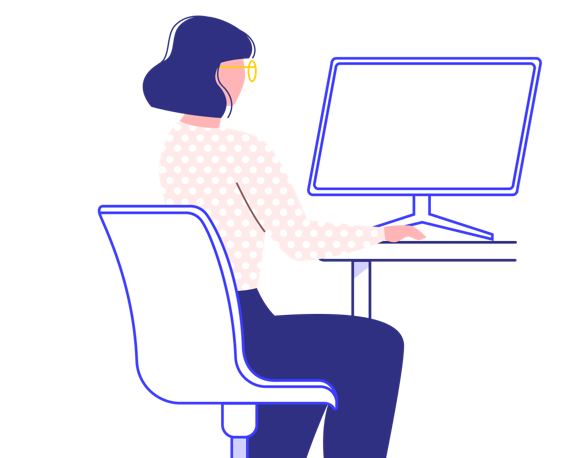
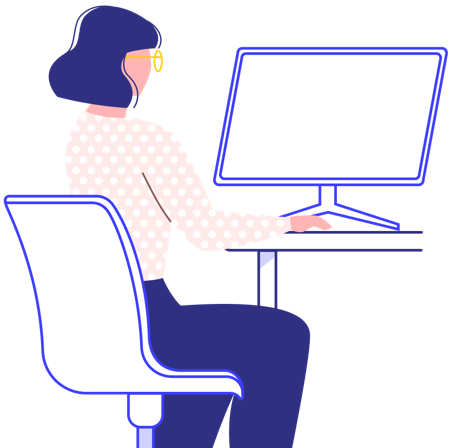
main content layout finalisation

diff --git a/content/_index.html b/content/_index.html
@@ -9,24 +9,22 @@ weight = 1
 
 +++
 
-<div>
-    <div class="container-md about">
-        <div class="row justify-content-end mt-5">
-            <div class="col-md-6 align-self-center">
-                <h1>Aby si firmy a mamy na Slovensku lepšie rozumeli</h1>
-                <p>Je nám cťou prinášať obojstranne výhodné riešenia pre ženy aj ich zamestnávateľov</p>
-                <p><strong>Budeme radi, ak sa pridáte!</strong></p>
-                <a href="moms"><img src="companies.png" class="me-4 mb-2"></a>
-                <a href=""><img src="moms.png" class="me-4 mb-2"></a>
-            </div>
-            <div class="col-md-5 align-self-end">
-                <img src="main.png" class="img-fluid mx-auto d-block image_offset_down_right"">
-            </div>
+<div class="container mt-4">
+    <div class="row justify-content-between">
+        <div class="col-md-6 align-self-center pb-4">
+            <h1>Aby si firmy a mamy na Slovensku lepšie rozumeli</h1>
+            <p>Je nám cťou prinášať obojstranne výhodné riešenia pre ženy aj ich zamestnávateľov</p>
+            <p><strong>Budeme radi, ak sa pridáte!</strong></p>
+            <a href="#" class="btn btn-outline-primary rounded-pill"><i class="bi bi-building"></i> Pre firmy</a>
+            <a href="#" class="btn btn-outline-primary rounded-pill"><i class="bi bi-person"></i> Pre mamy</a>
+        </div>
+        <div class="col-md-5 align-self-end">
+            <div class="float-end"><img src="main.png" class="img-fluid image_offset_down_rigt"></div>
         </div>
     </div>
 </div>
 
-<div class="container-md pt-5">
+<div class="container pt-5">
     <div class="row justify-content-center">
         <div class="col"><h2 class="text-center mt-5">V médiách</h2></div>
     </div>
@@ -64,31 +62,35 @@ weight = 1
         </div>
         <div class="col-md align-self-center">
             <p class="text-center">
-                <a href="https://zero2hero.sk/patricia-hirschnerova/" target="_blank"><img src="zero2hero-logo.png"
-                                                                                           class="img-fluid"></a>
+                <a href="https://zero2hero.sk/patricia-hirschnerova/" target="_blank">
+                    <img src="zero2hero-logo.png" class="img-fluid">
+                </a>
             </p>
         </div>
     </div>
 </div>
 
-<div class="container-md" style="background-color: #3D3EFF">
-    <div class="row justify-content-evenly">
-        <div class="col-md-6 align-self-center">
-            <h2 class="text-white">Pracujúce mamy</h2>
-            <p class="text-white">Mnohé ženy s expertízou a potenciálom ostávajú pracovne neaktívne, pracovať na
-                štandardný úväzok je pre ne náročné.</p>
-            <p class="text-white">Na druhej strane stoja firmy a ich manažment, ktoré v tejto oblasti nemajú kapacitu
-                experimentovať na vlastnú päsť.</p>
-            <p class="text-white"><strong>Pracujúce mamy vznikli, aby túto priepasť preklenuli.</strong></p>
-        </div>
-        <div class="col-md-5 order-md-first align-self-end">
-            <img src="woman_by_computer.png" class="img-fluid mx-auto d-block image_offset_down_left">
+<div class="container-fluid" style="background-color: #3D3EFF">
+    <div class="container">
+        <div class="row justify-content-between">
+            <div class="col-md-6 offset-md-1 align-self-center">
+                <h2 class="text-white">Pracujúce mamy</h2>
+                <p class="text-white">Mnohé ženy s expertízou a potenciálom ostávajú pracovne neaktívne, pracovať na
+                    štandardný úväzok je pre ne náročné.</p>
+                <p class="text-white">Na druhej strane stoja firmy a ich manažment, ktoré v tejto oblasti nemajú
+                    kapacitu
+                    experimentovať na vlastnú päsť.</p>
+                <p class="text-white"><strong>Pracujúce mamy vznikli, aby túto priepasť preklenuli.</strong></p>
+            </div>
+            <div class="col-md-5 order-md-first align-self-end">
+                <img src="woman_by_computer.png" class="img-fluid image_offset_down_left">
+            </div>
         </div>
     </div>
 </div>
 
-<div class="container-md">
-    <div class="row justify-content-end">
+<div class="container">
+    <div class="row justify-content-between">
         <div class="col-md-6 align-self-center">
             <h2>A čo otcovia?</h2>
             <p>Vychádzame zo slovenskej reality, kde sa problém zaradiť späť do pracovného sveta po materskej týka
@@ -96,76 +98,74 @@ weight = 1
                 oslovia aj otcov, sú samozrejme vítaní rovnako!</p>
         </div>
         <div class="col-md-5 align-self-end">
-            <img src="man.png" class="img-fluid mx-auto d-block image_offset_down_right">
+            <div class="float-end"><img src="man.png" class="img-fluid image_offset_down_right"></div>
         </div>
     </div>
 </div>
 
 
-<div class="container-md" style="background-color: #FFFAF1">
-    <div class="row justify-content-start">
-        <div class="col-md-6 align-self-center">
-            <h2>Riešenia pre firmy</h2>
-            <p>Workshopy a na mieru šité postupy, ktoré vašim zamestnancom–rodičom zlepšia pracovné podmienky.
-                Mnohé z nich vás nebudú stáť ani cent navyše.</p>
-            <a href="#" target="_blank" class="link fw-bold">Zistiť viac ➔</a>
-        </div>
-        <div class="col-md-5 order-md-first  align-self-end">
-            <img src="solutions_for_companies.png" class="img-fluid mx-auto d-block image_offset_down_left">
+<div class="container-fluid" style="background-color: #FFFAF1">
+    <div class="container">
+        <div class="row justify-content-between">
+            <div class="col-md-6 offset-md-1 align-self-center pb-4">
+                <h2>Riešenia pre firmy</h2>
+                <p>Workshopy a na mieru šité postupy, ktoré vašim zamestnancom–rodičom zlepšia pracovné podmienky.
+                    Mnohé z nich vás nebudú stáť ani cent navyše.</p>
+                <a href="#" target="_blank" class="link fw-bold">Zistiť viac ➔</a>
+            </div>
+            <div class="col-md-5 order-md-first align-self-end">
+                <img src="solutions_for_companies.png" class="img-fluid image_offset_down_left">
+            </div>
         </div>
     </div>
 </div>
 
 
-<div class="container-md">
-    <div class="row justify-content-end">
-        <div class="col-md-6 align-self-center">
+<div class="container">
+    <div class="row justify-content-between">
+        <div class="col-md-6 align-self-center pb-4">
             <h2>Vzdelávanie pre mamy</h2>
             <p>Jednorázové webináre aj komplexné online kurzy s certifikátom. Práve o tých témach, ktoré pri návrate po
                 materskej potrebujete riešiť.</p>
             <a href="#" target="_blank" class="link fw-bold">Zistiť viac ➔</a>
         </div>
         <div class="col-md-5 align-self-end">
-            <img src="education_for_moms.png" class="img-fluid mx-auto d-block image_offset_down_right">
+            <div class="float-end"><img src="education_for_moms.png" class="img-fluid image_offset_down_right"></div>
         </div>
     </div>
 </div>
 
 
-<div class="container-fluid pt-5 pb-5" style="background-color: #F3F3FF; min-height: 400px">
-    <div class="row justify-content-evenly">
-        <div class="col-md-8 align-self-center">
-            <h2 class="text-center">Flexibilné pracovné ponuky pre mamy</h2>
-            <p class="text-center">ideálne pre návrat po materskej</p>
-        </div>
-    </div>
-    <div class="row justify-content-evenly">
-        <div class="col-md-4 align-self-center">
-            <form action="https://pracujucemamy.us17.list-manage.com/subscribe/post?u=9d22cc5a44ee2445254604e3f&amp;id=e90cc8df44"
-                  method="post" id="mc-embedded-subscribe-form" name="mc-embedded-subscribe-form"
-                  class="validate" target="_blank" novalidate>
-                <div id="mc_embed_signup_scroll" class="input-group">
-                    <input type="email" value="" name="EMAIL" class="email form-control rounded-pill" id="mce-EMAIL"
-                           placeholder="Email" required>
-                    <input type="submit" value="Odoberať" name="subscribe" id="mc-embedded-subscribe"
-                           class="btn btn-warning rounded-pill" style="transform: translate(-2rem);">
-                    <!-- real people should not fill this in and expect good things - do not remove this or risk form bot signups-->
-                    <div style="position: absolute; left: -5000px;" aria-hidden="true">
-                        <input type="text" name="b_9d22cc5a44ee2445254604e3f_e90cc8df44" tabindex="-1"
-                               value="">
+<div class="container-fluid pt-5 pb-5" style="background-color: #F3F3FF">
+    <div class="container pt-5 pb-5">
+        <div class="row justify-content-center">
+            <div class="col-md-12 align-self-center">
+                <h2 class="text-center">Flexibilné pracovné ponuky pre mamy</h2>
+                <p class="text-center">ideálne pre návrat po materskej</p>
+            </div>
+            <div class="col-md-5 align-self-center">
+                <form action="https://pracujucemamy.us17.list-manage.com/subscribe/post?u=9d22cc5a44ee2445254604e3f&amp;id=e90cc8df44"
+                      method="post" id="mc-embedded-subscribe-form" name="mc-embedded-subscribe-form"
+                      class="validate" target="_blank" novalidate>
+                    <div id="mc_embed_signup_scroll" class="input-group">
+                        <input type="email" value="" name="EMAIL" class="email form-control rounded-pill" id="mce-EMAIL"
+                               placeholder="Email" required style="transform: translate(1rem);">
+                        <input type="submit" value="Odoberať" name="subscribe" id="mc-embedded-subscribe"
+                               class="btn btn-warning rounded-pill" style="transform: translate(-1rem);">
+                        <!-- real people should not fill this in and expect good things - do not remove this or risk form bot signups-->
+                        <div style="position: absolute; left: -5000px;" aria-hidden="true">
+                            <input type="text" name="b_9d22cc5a44ee2445254604e3f_e90cc8df44" tabindex="-1" value="">
+                        </div>
                     </div>
-                    <div class="mt-3">
-                    </div>
-                </div>
-            </form>
-
+                </form>
+            </div>
         </div>
     </div>
 </div>
 
 
 <div class="container-fluid pt-5 pb-5" style="background-color: #FFA4A4; min-height: 280px">
-    <div class="row justify-content-evenly">
+    <div class="row justify-content-center">
         <div class="col-md-8 align-self-center">
             <h2 class="text-center">Obsadzuje vaša firma pozície vhodné pre mamy?</h2>
             <p class="text-center">Napíšte nám na info@pracujucemamy.sk a my vašu ponuku radi vyzdieľame v našej online

diff --git a/layouts/_default/baseof.html b/layouts/_default/baseof.html
@@ -58,8 +58,8 @@
 </noscript>
 <!-- End Google Tag Manager (noscript) -->
 
-<nav class="navbar navbar-expand-md navbar-light fixed-top shadow" style="background-color: #ffffff;">
-    <div class="container-md header">
+<nav class="navbar navbar-expand-lg navbar-light fixed-top shadow-sm" style="background-color: #ffffff;">
+    <div class="container-md header pe-5">
         <a class="navbar-brand" href="{{.Site.BaseURL}}">
             <svg width="56" height="40" viewBox="0 0 56 40" fill="none" xmlns="http://www.w3.org/2000/svg">
                 <path fill-rule="evenodd" clip-rule="evenodd"

diff --git a/layouts/gdpr/single.html b/layouts/gdpr/single.html
@@ -8,7 +8,7 @@
     </div>
     <div class="row  justify-content-center mt-5">
         <div class="col-md-9">
-            <a href="{{.Parent.RelPermalink}}" class="btn btn-outline-primary"><i class="bi bi-arrow-left"></i> Späť</a></div>
+            <a href="{{.Parent.RelPermalink}}" class="btn btn-outline-primary rounded-pill"><i class="bi bi-arrow-left"></i> Späť</a></div>
     </div>
 </div>
 

diff --git a/assets/sass/main.scss b/assets/sass/main.scss
@@ -3,8 +3,11 @@
  2021 Pracujuce Mamy
  */
 
-$primary: #303083;
+$primary: #3D3EFF;
+$secondary: #3D3EFF;
 $link-color: #3D3EFF;
+
+$grid-gutter-width: 1.5rem;
 
 @import "./bootstrap/scss/bootstrap";
 
